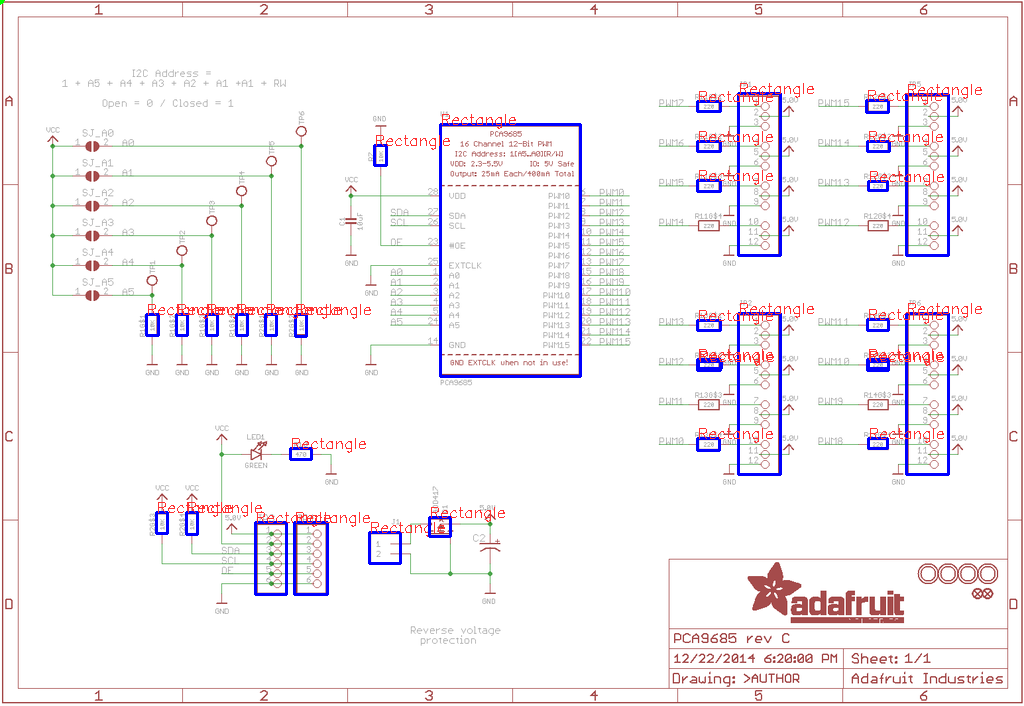
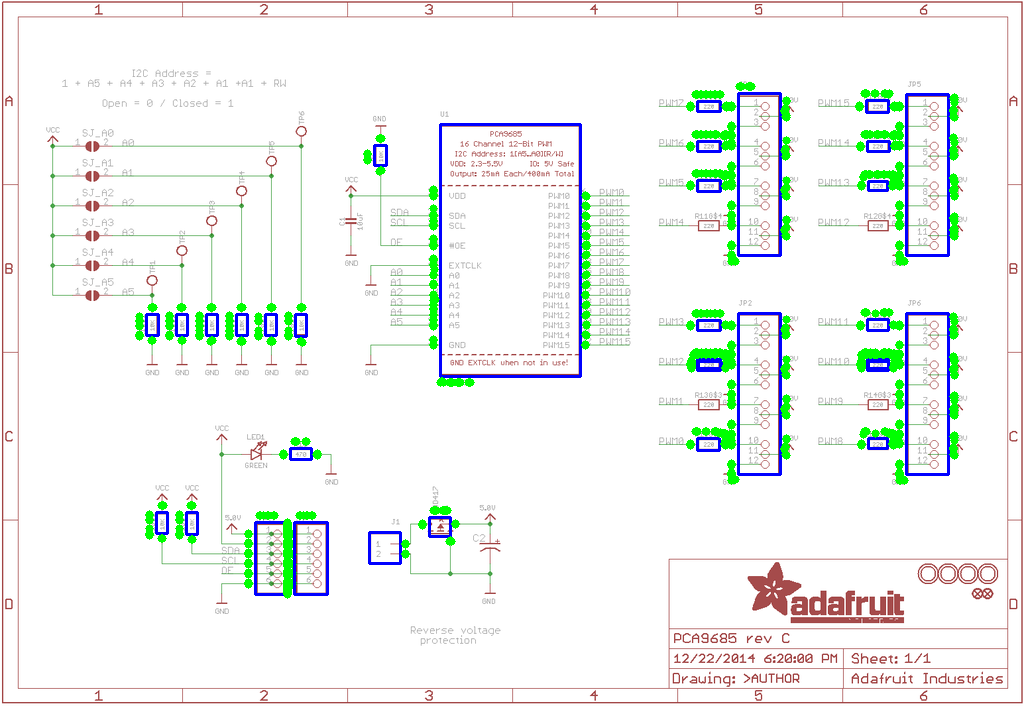
pin detection

diff --git a/Program test/Model test/edge_detection.py b/Program test/Model test/edge_detection.py
@@ -1,101 +1,141 @@
+import os
 import cv2
 import numpy as np
-import torch
-import matplotlib.pyplot as plt
 from ultralytics import YOLO
 
-# **載入 YOLOv8 訓練的模型**
-model = YOLO("yolov8m-pose.pt")  # 替換成你的模型
+# Function to detect pins by scanning along the edges
+def detect_pins(image, bbox, expand_pixels=5):
+    x_min, y_min, x_max, y_max = bbox
 
-# **讀取電路圖**
-image_path = "./Model test results/circuit001.png"  # 你的電路圖
-image = cv2.imread(image_path)
+    # Expand the bounding box
+    x_min = max(0, x_min - expand_pixels)
+    y_min = max(0, y_min - expand_pixels)
+    x_max = min(image.shape[1], x_max + expand_pixels)
+    y_max = min(image.shape[0], y_max + expand_pixels)
 
-if image is None:
-    raise FileNotFoundError("找不到圖片，請確認 image_path 是否正確")
+    # Crop the component region
+    component = image[y_min:y_max, x_min:x_max]
 
-# **用 YOLO 偵測 Bounding Boxes**
-results = model(image)
-bboxes = results[0].boxes.xyxy.cpu().numpy()  # 取得 YOLO 偵測到的 bounding boxes
+    # Convert to grayscale
+    gray = cv2.cvtColor(component, cv2.COLOR_BGR2GRAY)
+    
+    # Apply Gaussian blur to reduce noise
+    gray = cv2.GaussianBlur(gray, (5, 5), 0)
 
-print(f"YOLO 偵測到 {len(bboxes)} 個元件")
+    # Apply adaptive thresholding
+    binary = cv2.adaptiveThreshold(gray, 255, cv2.ADAPTIVE_THRESH_GAUSSIAN_C, cv2.THRESH_BINARY_INV, 11, 2)
 
+    # Store pin locations for each edge
+    top_pins = []     # Pins on the top edge
+    bottom_pins = []  # Pins on the bottom edge
+    left_pins = []    # Pins on the left edge
+    right_pins = []   # Pins on the right edge
 
-# **函數：擴展 Bounding Box**
-def expand_bbox(bbox, image_shape, expand_ratio=1.2):
-    img_h, img_w = image_shape[:2]
-    x_min, y_min, x_max, y_max = map(int, bbox)
+    # Scan the top edge (check first 3 rows)
+    for x in range(binary.shape[1]):
+        for y in range(3):  # Check first 3 rows
+            if binary[y, x] == 255:
+                top_pins.append((x_min + x, y_min + y))
+                break  # Stop after finding the first pin in this column
 
-    # 計算擴展大小
-    width, height = x_max - x_min, y_max - y_min
-    expand_x = int(width * (expand_ratio - 1) / 2)
-    expand_y = int(height * (expand_ratio - 1) / 2)
+    # Scan the bottom edge (check last 3 rows)
+    for x in range(binary.shape[1]):
+        for y in range(binary.shape[0] - 3, binary.shape[0]):  # Check last 3 rows
+            if binary[y, x] == 255:
+                bottom_pins.append((x_min + x, y_min + y))
+                break  # Stop after finding the first pin in this column
 
-    # 擴展 Bounding Box，確保不超過圖片邊界
-    x_min = max(x_min - expand_x, 0)
-    y_min = max(y_min - expand_y, 0)
-    x_max = min(x_max + expand_x, img_w - 1)
-    y_max = min(y_max + expand_y, img_h - 1)
+    # Scan the left edge (check first 3 columns)
+    for y in range(binary.shape[0]):
+        for x in range(3):  # Check first 3 columns
+            if binary[y, x] == 255:
+                left_pins.append((x_min + x, y_min + y))
+                break  # Stop after finding the first pin in this row
 
-    return (x_min, y_min, x_max, y_max)
+    # Scan the right edge (check last 3 columns)
+    for y in range(binary.shape[0]):
+        for x in range(binary.shape[1] - 3, binary.shape[1]):  # Check last 3 columns
+            if binary[y, x] == 255:
+                right_pins.append((x_min + x, y_min + y))
+                break  # Stop after finding the first pin in this row
 
+    return top_pins, bottom_pins, left_pins, right_pins
 
-# **函數：Edge Detection + Pin Extraction**
-def extract_pin_points(image, bbox, expand_ratio=1.5):
-    """
-    依據 YOLO 偵測的 Bounding Box 提取感興趣區域（ROI），
-    並使用 Edge Detection 找出 Pin Point。
-    """
-    # **擴展 Bounding Box**
-    x_min, y_min, x_max, y_max = expand_bbox(bbox, image.shape, expand_ratio)
+# Function for processing all images
+def process_all_images():
+    # Define the image folder path dynamically
+    image_folder = os.path.join(PARENT_PATH, 'Model test/Test images')
 
-    # **提取 ROI**
-    roi = image[y_min:y_max, x_min:x_max]
-    gray = cv2.cvtColor(roi, cv2.COLOR_BGR2GRAY)
+    # Define the output folder for processed images
+    output_folder = os.path.join(PARENT_PATH, 'Model test/Model test results')
+    os.makedirs(output_folder, exist_ok=True)  # Create the output folder if it doesn't exist
 
-    # **去雜訊**
-    blurred = cv2.GaussianBlur(gray, (5, 5), 0)
+    # Load YOLO model
+    pose_folder = os.path.join(PROJECT_PATH, 'Current trained model/pose')
+    train_folders = [folder for folder in os.listdir(pose_folder) if folder.startswith('train')]
 
-    # **Canny 邊緣偵測**
-    edges = cv2.Canny(blurred, 50, 150)
+    # Check if there are train folders
+    if not train_folders:
+        raise FileNotFoundError("No 'train' folders found in the pose directory.")
 
-    # **尋找輪廓**
-    contours, _ = cv2.findContours(edges, cv2.RETR_EXTERNAL, cv2.CHAIN_APPROX_SIMPLE)
+    # Determine the latest train folder
+    def extract_suffix(folder_name):
+        if folder_name == "train":
+            return 0
+        else:
+            return int(folder_name[5:])  # Extract the numeric suffix from folder names like 'train1', 'train2', etc.
 
-    # **初始化 Pin Points**
-    pin_points = []
+    latest_train_folder = max(train_folders, key=extract_suffix)
+    latest_train_path = os.path.join(pose_folder, latest_train_folder, 'weights', 'last.pt')
 
-    # **篩選輪廓**
-    for contour in contours:
-        area = cv2.contourArea(contour)
-        if 5 < area < 100:  # 過濾掉太小或太大的雜訊
-            M = cv2.moments(contour)
-            if M["m00"] != 0:
-                cx = int(M["m10"] / M["m00"]) + x_min
-                cy = int(M["m01"] / M["m00"]) + y_min
-                pin_points.append((cx, cy))
+    print(f"Loading model from: {latest_train_path}")
+    model = YOLO(latest_train_path)
 
-    return pin_points
+    # Get a list of all image files in the folder
+    image_files = [f for f in os.listdir(image_folder) if f.lower().endswith(('.jpg', '.jpeg', '.png'))]
 
+    # Process and save each image
+    for image_file in image_files:
+        image_path = os.path.join(image_folder, image_file)
 
-# **畫出 YOLO 偵測框，並對每個框找 Pin Point**
-plt.figure(figsize=(10, 6))
-plt.imshow(cv2.cvtColor(image, cv2.COLOR_BGR2RGB))
-plt.title("YOLO 偵測元件 + Pin Points")
+        # Load image
+        img = cv2.imread(image_path)
 
-for bbox in bboxes:
-    # **擴展 Bounding Box**
-    x_min, y_min, x_max, y_max = expand_bbox(bbox, image.shape, expand_ratio=1.3)  # 設定擴展比例
+        # Run inference using YOLO
+        results = model(image_path)[0]
 
-    # **畫擴展後的 Bounding Box**
-    plt.gca().add_patch(plt.Rectangle((x_min, y_min), x_max - x_min, y_max - y_min, 
-                                      linewidth=2, edgecolor="green", facecolor="none"))
+        # Process each result
+        for result in results:
+            for cls, keypoints, bbox in zip(result.boxes.cls.cpu().numpy(),
+                                             result.keypoints.xy.cpu().numpy(),
+                                             result.boxes.xyxy.cpu().numpy()):
+                class_idx = int(cls)
+                object_name = results.names[class_idx]  # Get the class name from the model
 
-    # **找出 Pin Points**
-    pin_points = extract_pin_points(image, bbox, expand_ratio=1.3)
+                # Extract bounding box coordinates
+                x_min, y_min, x_max, y_max = map(int, bbox)
 
-    # **畫出 Pin Points**
-    for (px, py) in pin_points:
-        plt.scatter(px, py, color="red", s=40)  # 紅色圓點標記 Pin
+                # Draw bounding box (without label)
+                cv2.rectangle(img, (x_min, y_min), (x_max, y_max), (255, 0, 0), 2)  # Draw bounding box in blue
 
-plt.show()
+                # Detect pins using edge scanning
+                top_pins, bottom_pins, left_pins, right_pins = detect_pins(img, (x_min, y_min, x_max, y_max), expand_pixels=7)
+
+                # Draw detected pins (all in green)
+                for pin in top_pins + bottom_pins + left_pins + right_pins:
+                    cv2.circle(img, pin, radius=4, color=(0, 255, 0), thickness=-1)  # Draw pins in green
+
+        # Save the processed image to the output folder
+        output_image_path = os.path.join(output_folder, image_file)
+        cv2.imwrite(output_image_path, img)
+        print(f"Processed image saved to: {output_image_path}")
+
+# Main function
+if __name__ == '__main__':
+    # Get the current working directory and define the project root
+    current_dir = os.getcwd()
+    PARENT_PATH = os.path.dirname(current_dir)  # Parent path is one level up
+    PROJECT_PATH = os.path.dirname(os.path.dirname(current_dir))  # Project path is two levels up
+
+    # Process all images
+    process_all_images()
